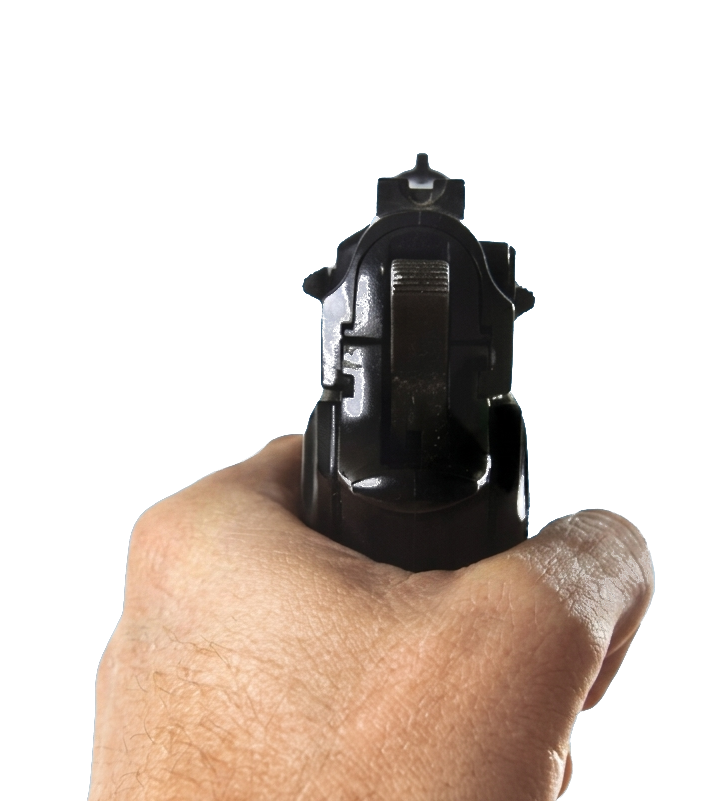
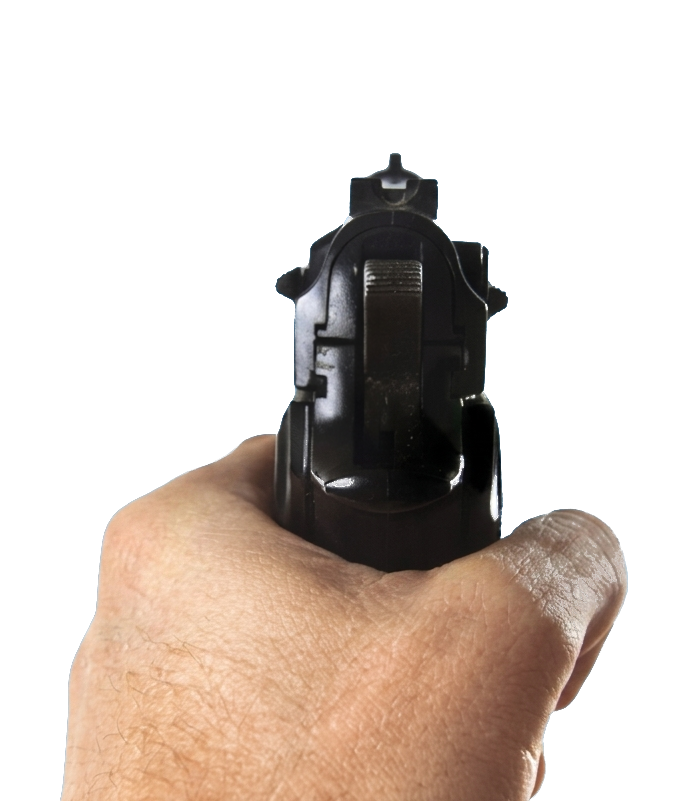
FEAT: Adding gun with mouse tracking.

diff --git a/src/pages/Game.jsx b/src/pages/Game.jsx
@@ -1,0 +1,61 @@
+import "bootstrap/dist/css/bootstrap.min.css"
+import Row from 'react-bootstrap/Row';
+import Col from 'react-bootstrap/Col';
+import Gun from '../components/Gun'
+import { useLocation } from "react-router";
+import { useEffect, useRef, useState } from "react";
+
+export default function Game() {
+    const location = useLocation()
+
+    const mainColRef = useRef(null)
+
+    const [mainColWidth, setWidth] = useState(0);
+    const [mainColHeight, setHeight] = useState(0);
+    const [mouseX, setMouseX] = useState(0)
+    const [mouseY, setMouseY] = useState(0)
+
+    const difficulty = location?.state?.difficulty || "Easy"
+
+    /* Track main column width and height */
+    useEffect(() => {
+        const currentToObserve = mainColRef.current
+
+        const resizeObserver = new ResizeObserver((event) => {
+            setWidth(event[0].contentBoxSize[0].inlineSize);
+            setHeight(event[0].contentBoxSize[0].blockSize);
+        });
+
+        if (currentToObserve) {
+            resizeObserver.observe(currentToObserve);
+        }
+
+        return () => {
+            resizeObserver.unobserve(currentToObserve)
+        }
+    }, []);
+
+    /* Track mouse position relative to game canvas */
+    const handleMouseMove = () => {
+        if (mainColRef.current) {
+            const rect = mainColRef.current.getBoundingClientRect();
+            setMouseX(event.clientX - rect.left)
+            setMouseY(event.clientY - rect.top)
+        }
+    }
+
+    return (
+        <Col 
+            onMouseMove={handleMouseMove} 
+            ref={mainColRef} 
+            className="border" 
+            style={{ height: "80vh", padding: "0px" }}
+        >
+            <Gun 
+                mouseX={mouseX}  
+                parentWidth={mainColWidth} 
+                parentHeight={mainColHeight} 
+            />
+        </Col>
+    )
+}

diff --git a/src/components/MenuForm.jsx b/src/components/MenuForm.jsx
@@ -3,18 +3,32 @@ import Row from 'react-bootstrap/Row';
 import Col from 'react-bootstrap/Col';
 import Button from 'react-bootstrap/Button';
 import Form from 'react-bootstrap/Form';
+import { useNavigate } from "react-router";
+import { useState } from "react";
 
 
 export default function MenuForm() {
+    const navigate = useNavigate()
+    const [difficulty, setDifficulty] = useState("Easy")
+
+    const handleSubmit = (e) => {
+        e.preventDefault()
+        navigate("/game", {state: {difficulty}})
+    }
+
+    const handleDifficultySelectChange = (e) => {
+        setDifficulty(e.target.value)
+    }
+
     return (
         <Col lg="4" className="m-auto">
-            <Form >
+            <Form onSubmit={handleSubmit}>
                 <Form.Group className="mb-3" controlId="formBasicEmail">
                     <Form.Label>Difficulty</Form.Label>
-                    <Form.Select aria-label="Select the difficulty of the game">
-                        <option value="1">Easy</option>
-                        <option value="2">Medium</option>
-                        <option value="3">Hard</option>
+                    <Form.Select value={difficulty} onChange={handleDifficultySelectChange} aria-label="Select the difficulty of the game">
+                        <option value="Easy">Easy</option>
+                        <option value="Medium">Medium</option>
+                        <option value="Hard">Hard</option>
                     </Form.Select>
                 </Form.Group>
 

diff --git a/src/App.jsx b/src/App.jsx
@@ -6,6 +6,8 @@ import Scores from "./pages/Scores"
 import Col from "react-bootstrap/Col"
 import Row from "react-bootstrap/Row"
 import Button from "react-bootstrap/Button"
+import TargetImage from "./assets/target.png"
+import Game from "./pages/Game"
 
 function AppLayout() {
   const location = useLocation()
@@ -17,12 +19,12 @@ function AppLayout() {
   return (
     <Container className="mt-2">
       <Row>
-        <Col>
-          <h1>Shooting Range</h1>
+        <Col className="m-2">
+          <span className="p-2" style={{borderRight: "1px solid #dee2e6", marginRight: "12px"}} >Shooting Range <img width="50" src={TargetImage} alt="Target Image"/></span> 
           <Button onClick={() => {navigate("/")}} disabled={isMenu} className="m-1" variant="outline-primary">Menu</Button>
           <Button onClick={() => {navigate("/scores")}} disabled={isScore} className="m-1"variant="outline-primary">Scores</Button>
-          <hr />
         </Col>
+        <hr />
       </Row>
       <Row>
         <Outlet />
@@ -37,6 +39,7 @@ function App() {
       <Route element={<AppLayout />}>
         <Route path="/" element={<Menu />} />
         <Route path="/scores" element={<Scores />} />
+        <Route path="/game" element={<Game />} />
         <Route path="*" element={<NotFound />} />
       </Route>
     </Routes>

diff --git a/src/components/Gun.jsx b/src/components/Gun.jsx
@@ -1,0 +1,34 @@
+import "bootstrap/dist/css/bootstrap.min.css"
+import Row from 'react-bootstrap/Row';
+import Col from 'react-bootstrap/Col';
+import Button from 'react-bootstrap/Button';
+import Form from 'react-bootstrap/Form';
+import { useNavigate } from "react-router";
+import { useEffect, useRef, useState } from "react";
+import gunIdle from "../assets/gun_1.png"
+import { clamp } from "../utils";
+
+
+export default function Gun({ mouseX, parentWidth, parentHeight }) {
+    const gunImageRef = useRef(null)
+    const imgHeight = 150
+    const imgWidth = 150
+    const offsetMouseX = -73
+    const minMouseX = 0
+    const maxMouseX = parentWidth - (imgWidth - (30 /* Offset to compensate image size */))
+
+    return (
+        <img
+            ref={gunImageRef}
+            src={gunIdle}
+            alt="gun"
+            style={{
+                height: `${imgHeight}px`,
+                imgWidth: `${imgWidth}px`,
+                position: "relative",
+                left: clamp(mouseX + offsetMouseX, minMouseX, maxMouseX),
+                top: parentHeight - imgHeight
+            }}
+        />
+    )
+}

diff --git a/src/utils.js b/src/utils.js
@@ -1,0 +1,3 @@
+export function clamp(num, min, max) {
+    return Math.min(Math.max(num, min), max);
+}
